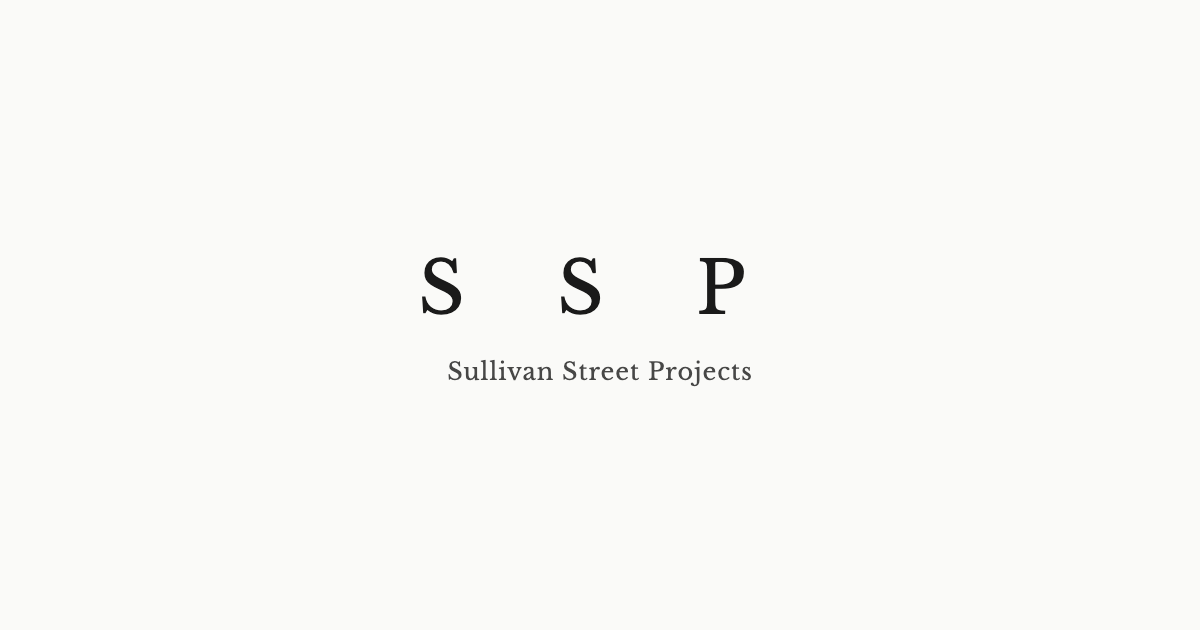
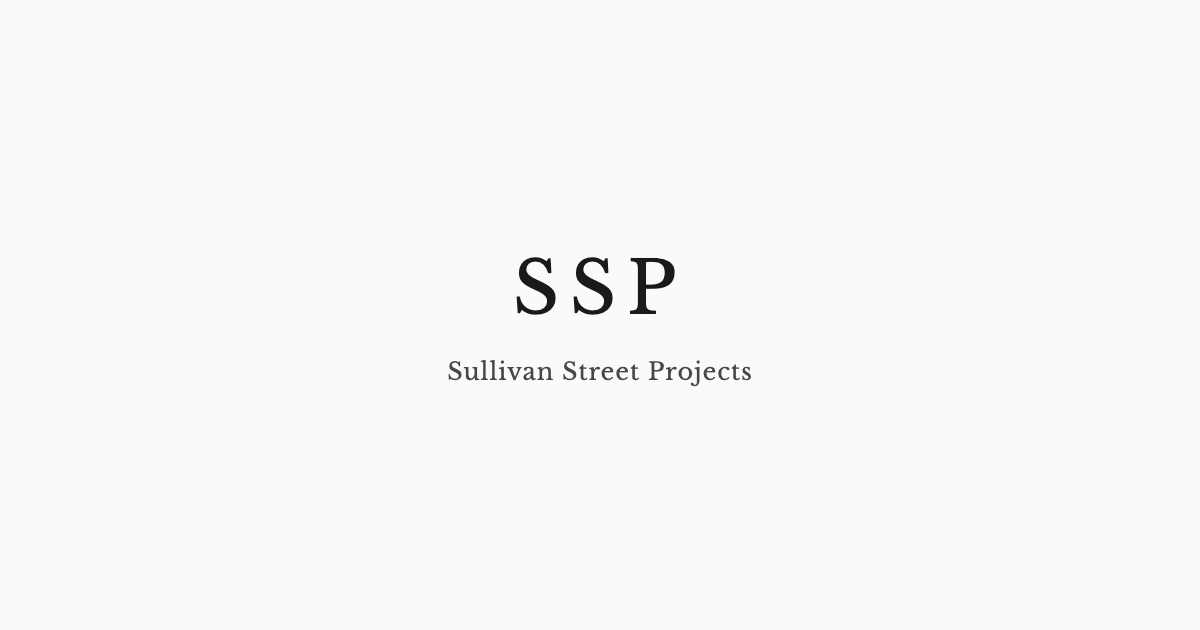
Consolidate and prune Design Playground: merge duplicates, reduce categories 17→14

Changed region(s): [[0.4317, 0.3921, 0.6167, 0.5127], [0.3392, 0.3921, 0.4008, 0.5127]]

diff --git a/src/playground/DesignPlayground.jsx b/src/playground/DesignPlayground.jsx
@@ -12,85 +12,12 @@ const categories = [
     ],
   },
   {
-    title: 'Value Props',
-    description: 'Core messaging layout variations',
-    variants: [
-      { id: 'animated-halftone', label: 'Animated Halftone', shipped: true, load: () => import('./variants/ValuePropsAnimatedHalftone') },
-      { id: 'editorial-halftone', label: 'Editorial Split', load: () => import('./variants/ValuePropsEditorialHalftone') },
-      { id: 'bento-cards', label: 'Bento Cards', load: () => import('./variants/ValuePropsAppleCards') },
-      { id: 'minimal-halftone', label: 'Minimalist Halftone', load: () => import('./variants/ValuePropsMinimalHalftone') },
-      { id: 'icon-grid', label: 'Icon Grid', load: () => import('./variants/ValuePropsWhiteCards') },
-      { id: 'halftone-icons', label: 'Halftone Icons', load: () => import('./variants/ValuePropsHalftoneIcons') },
-      { id: 'structured-list', label: 'Structured List', load: () => import('./variants/ValuePropsStructured') },
-      { id: 'inverted-dark', label: 'Inverted (Dark)', load: () => import('./variants/ValuePropsInverted') },
-      { id: 'sourced-photo', label: 'Sourced Photography', load: () => import('./variants/ValuePropsSourced') },
-      { id: 'user-generated', label: 'User Generated', load: () => import('./variants/ValuePropsUserImages') },
-      { id: 'editorial-text', label: 'Pure Text', load: () => import('./variants/ValuePropsEditorialText') },
-      { id: 'full-halftone', label: 'Maximalist Halftone', load: () => import('./variants/ValuePropsHalftone') },
-      { id: 'conceptual-svgs', label: 'Conceptual SVGs', load: () => import('./variants/ValuePropsConceptual') },
-      { id: 'photo-halftone', label: 'Photo Halftone', load: () => import('./variants/ValuePropsPhotoHalftone') },
-    ],
-  },
-  {
-    title: 'Approach',
-    description: 'Process and methodology visualizations',
-    variants: [
-      { id: 'approach-dots', label: 'Progressive Dots', shipped: true, load: () => import('./variants/ValuePropsApproachDots') },
-      { id: 'approach-dice', label: 'Dice Grid', load: () => import('./variants/ValuePropsApproachDice') },
-      { id: 'approach-numbered', label: 'Numbered Steps', load: () => import('./variants/ValuePropsApproachNumbered') },
-      { id: 'approach-narrative', label: 'Narrative Block', load: () => import('./variants/ApproachNarrative') },
-      { id: 'approach-diagram', label: 'Process Diagram', load: () => import('./variants/ApproachDiagram') },
-      { id: 'approach-accordion', label: 'Accordion Flow', load: () => import('./variants/ApproachAccordionFlow') },
-      { id: 'approach-cascade', label: 'Cascade Cards', load: () => import('./variants/ApproachCascade') },
-      { id: 'approach-swiss', label: 'Swiss Timeline', load: () => import('./variants/ApproachSwissTimeline') },
-      { id: 'approach-editorial', label: 'NYT Editorial', load: () => import('./variants/ApproachEditorial') },
-      { id: 'approach-stacking', label: 'Stacking Cards', load: () => import('./variants/ApproachStacking') },
-      { id: 'approach-focus', label: 'Scroll Focus', load: () => import('./variants/ApproachFocus') },
-    ],
-  },
-  {
-    title: 'Services',
-    description: 'Pricing and tier presentation',
-    variants: [
-      { id: 'services-rows', label: 'Accordion List', load: () => import('./variants/ServicesAccordionRows') },
-      { id: 'services-tiers', label: 'Tier Cards', load: () => import('./variants/ServicesAccordionTiers') },
-      { id: 'services-summary', label: 'Summary Grid', load: () => import('./variants/ServicesAccordionSummary') },
-    ],
-  },
-  {
-    title: 'Page Rhythm',
-    description: 'Section flow and background treatments',
-    variants: [
-      { id: 'statement-dark', label: 'Statement (Dark)', load: () => import('./variants/StatementDark') },
-      { id: 'statement-valueprop', label: 'Editorial Spread', load: () => import('./variants/StatementValueProps') },
-      { id: 'statement-text', label: 'Text Only', load: () => import('./variants/StatementValuePropsText') },
-    ],
-  },
-  {
     title: 'Hero',
     description: 'Hero section design directions',
     variants: [
       { id: 'hero-minimalist', label: 'Minimalist', load: () => import('./variants/HeroMinimalist') },
       { id: 'hero-magazine', label: 'Magazine', load: () => import('./variants/HeroMagazine') },
       { id: 'hero-immersive', label: 'Immersive', load: () => import('./variants/HeroImmersive') },
-    ],
-  },
-  {
-    title: 'Credentials',
-    description: 'Brand credibility presentations',
-    variants: [
-      { id: 'credentials-minimalist', label: 'Minimalist', load: () => import('./variants/CredentialsMinimalist') },
-      { id: 'credentials-magazine', label: 'Magazine', load: () => import('./variants/CredentialsMagazine') },
-      { id: 'credentials-immersive', label: 'Immersive', load: () => import('./variants/CredentialsImmersive') },
-    ],
-  },
-  {
-    title: 'Statement',
-    description: 'Pull-quote and thesis presentations',
-    variants: [
-      { id: 'statement-minimalist', label: 'Minimalist', load: () => import('./variants/StatementMinimalist') },
-      { id: 'statement-magazine', label: 'Magazine', load: () => import('./variants/StatementMagazine') },
-      { id: 'statement-immersive', label: 'Immersive', load: () => import('./variants/StatementImmersive') },
     ],
   },
   {
@@ -103,21 +30,64 @@ const categories = [
     ],
   },
   {
-    title: 'Approach (New)',
-    description: 'Process methodology — new design directions',
+    title: 'Value Props',
+    description: 'Core messaging layout variations',
     variants: [
-      { id: 'approach-minimalist', label: 'Minimalist', load: () => import('./variants/ApproachMinimalist') },
-      { id: 'approach-magazine', label: 'Magazine', load: () => import('./variants/ApproachMagazine') },
-      { id: 'approach-immersive', label: 'Immersive', load: () => import('./variants/ApproachImmersive') },
+      { id: 'animated-halftone', label: 'Animated Halftone', shipped: true, load: () => import('./variants/ValuePropsAnimatedHalftone') },
+      { id: 'editorial-halftone', label: 'Editorial Split', load: () => import('./variants/ValuePropsEditorialHalftone') },
+      { id: 'bento-cards', label: 'Bento Cards', load: () => import('./variants/ValuePropsAppleCards') },
+      { id: 'icon-grid', label: 'Icon Grid', load: () => import('./variants/ValuePropsWhiteCards') },
+      { id: 'structured-list', label: 'Structured List', load: () => import('./variants/ValuePropsStructured') },
+      { id: 'inverted-dark', label: 'Inverted (Dark)', load: () => import('./variants/ValuePropsInverted') },
+      { id: 'sourced-photo', label: 'Sourced Photography', load: () => import('./variants/ValuePropsSourced') },
+      { id: 'editorial-text', label: 'Pure Text', load: () => import('./variants/ValuePropsEditorialText') },
+      { id: 'conceptual-svgs', label: 'Conceptual SVGs', load: () => import('./variants/ValuePropsConceptual') },
     ],
   },
   {
-    title: 'Services (New)',
-    description: 'Pricing and tier — new design directions',
+    title: 'Approach',
+    description: 'Process and methodology visualizations',
+    variants: [
+      { id: 'approach-dots', label: 'Progressive Dots', shipped: true, load: () => import('./variants/ValuePropsApproachDots') },
+      { id: 'approach-minimalist', label: 'Minimalist', load: () => import('./variants/ApproachMinimalist') },
+      { id: 'approach-magazine', label: 'Magazine', load: () => import('./variants/ApproachMagazine') },
+      { id: 'approach-immersive', label: 'Immersive', load: () => import('./variants/ApproachImmersive') },
+      { id: 'approach-narrative', label: 'Narrative Block', load: () => import('./variants/ApproachNarrative') },
+      { id: 'approach-accordion', label: 'Accordion Flow', load: () => import('./variants/ApproachAccordionFlow') },
+      { id: 'approach-swiss', label: 'Swiss Timeline', load: () => import('./variants/ApproachSwissTimeline') },
+      { id: 'approach-stacking', label: 'Stacking Cards', load: () => import('./variants/ApproachStacking') },
+    ],
+  },
+  {
+    title: 'Statement',
+    description: 'Pull-quote, thesis, and section rhythm',
+    variants: [
+      { id: 'statement-minimalist', label: 'Minimalist', load: () => import('./variants/StatementMinimalist') },
+      { id: 'statement-magazine', label: 'Magazine', load: () => import('./variants/StatementMagazine') },
+      { id: 'statement-immersive', label: 'Immersive', load: () => import('./variants/StatementImmersive') },
+      { id: 'statement-dark', label: 'Dark', load: () => import('./variants/StatementDark') },
+      { id: 'statement-valueprop', label: 'Editorial Spread', load: () => import('./variants/StatementValueProps') },
+    ],
+  },
+  {
+    title: 'Services',
+    description: 'Pricing and tier presentation',
     variants: [
       { id: 'services-minimalist', label: 'Minimalist', load: () => import('./variants/ServicesMinimalist') },
       { id: 'services-magazine', label: 'Magazine', load: () => import('./variants/ServicesMagazine') },
       { id: 'services-immersive', label: 'Immersive', load: () => import('./variants/ServicesImmersive') },
+      { id: 'services-rows', label: 'Accordion List', load: () => import('./variants/ServicesAccordionRows') },
+      { id: 'services-tiers', label: 'Tier Cards', load: () => import('./variants/ServicesAccordionTiers') },
+      { id: 'services-summary', label: 'Summary Grid', load: () => import('./variants/ServicesAccordionSummary') },
+    ],
+  },
+  {
+    title: 'Credentials',
+    description: 'Brand credibility presentations',
+    variants: [
+      { id: 'credentials-minimalist', label: 'Minimalist', load: () => import('./variants/CredentialsMinimalist') },
+      { id: 'credentials-magazine', label: 'Magazine', load: () => import('./variants/CredentialsMagazine') },
+      { id: 'credentials-immersive', label: 'Immersive', load: () => import('./variants/CredentialsImmersive') },
     ],
   },
   {
@@ -145,6 +115,7 @@ const categories = [
       { id: 'contact-minimalist', label: 'Minimalist', load: () => import('./variants/ContactMinimalist') },
       { id: 'contact-magazine', label: 'Magazine', load: () => import('./variants/ContactMagazine') },
       { id: 'contact-immersive', label: 'Immersive', load: () => import('./variants/ContactImmersive') },
+      { id: 'contact-convergence', label: 'Convergence', load: () => import('./variants/ContactConvergence') },
     ],
   },
   {
@@ -158,11 +129,10 @@ const categories = [
   },
   {
     title: 'Explorations',
-    description: 'Layout patterns and experimental structures',
+    description: 'Experimental layouts and patterns',
     variants: [
       { id: 'section-spacing', label: 'Section Spacing / Dividers', load: () => import('./variants/SectionSeparation') },
       { id: 'full-bleed', label: 'Full-Bleed Zones', load: () => import('./variants/FullBleedZone') },
-      { id: 'contact-convergence', label: 'Contact Convergence', load: () => import('./variants/ContactConvergence') },
       { id: 'green-accent', label: 'Green Accent Test', load: () => import('./variants/GreenAccentHalftone') },
       { id: 'bg-green-tint', label: 'Background Tints', load: () => import('./variants/BackgroundGreenTint') },
     ],
@@ -231,18 +201,18 @@ const DesignPlayground = () => {
         {/* Sidebar Header */}
         <div className="px-5 py-4 border-b border-[#e5e5e5] hidden md:block">
           <div className="flex items-center justify-between mb-1">
-             <h1 className="font-serif text-lg text-[#1a1a1a]">Playground</h1>
-             <a
-               href="/"
-               className="text-[10px] font-bold text-[#737373] hover:text-[#1a1a1a] uppercase tracking-widest"
-               onClick={(e) => {
-                 e.preventDefault();
-                 window.location.hash = '';
-                 window.location.reload();
-               }}
-             >
-               Exit
-             </a>
+            <h1 className="font-serif text-lg text-[#1a1a1a]">Playground</h1>
+            <a
+              href="/"
+              className="text-[10px] font-bold text-[#737373] hover:text-[#1a1a1a] uppercase tracking-widest"
+              onClick={(e) => {
+                e.preventDefault();
+                window.location.hash = '';
+                window.location.reload();
+              }}
+            >
+              Exit
+            </a>
           </div>
           <p className="text-[11px] text-[#737373]">Design system & layout lab</p>
         </div>
@@ -262,24 +232,21 @@ const DesignPlayground = () => {
                       setSelectedVariantId(v.id);
                       setIsSidebarOpen(false);
                     }}
-                    className={`w-full text-left px-3 py-2 rounded-md text-[13px] transition-all flex items-center justify-between group ${
-                      selectedVariantId === v.id
+                    className={`w-full text-left px-3 py-2 rounded-md text-[13px] transition-all flex items-center justify-between group ${selectedVariantId === v.id
                         ? 'bg-[#1a1a1a] text-white shadow-sm'
                         : 'text-[#525252] hover:bg-[#e5e5e5]/60'
-                    }`}
+                      }`}
                   >
                     <span className="truncate mr-2">{v.label}</span>
                     {v.version && (
-                      <span className={`text-[9px] px-1.5 py-0.5 rounded font-medium shrink-0 ${
-                        selectedVariantId === v.id ? 'bg-white/10 text-white/70' : 'bg-transparent text-[#a3a3a3]'
-                      }`}>
+                      <span className={`text-[9px] px-1.5 py-0.5 rounded font-medium shrink-0 ${selectedVariantId === v.id ? 'bg-white/10 text-white/70' : 'bg-transparent text-[#a3a3a3]'
+                        }`}>
                         {v.version}
                       </span>
                     )}
                     {v.shipped && (
-                      <span className={`text-[9px] px-1.5 py-0.5 rounded font-medium shrink-0 ${
-                        selectedVariantId === v.id ? 'bg-white/20 text-white' : 'bg-[#e5e5e5] text-[#737373]'
-                      }`}>
+                      <span className={`text-[9px] px-1.5 py-0.5 rounded font-medium shrink-0 ${selectedVariantId === v.id ? 'bg-white/20 text-white' : 'bg-[#e5e5e5] text-[#737373]'
+                        }`}>
                         LIVE
                       </span>
                     )}
@@ -307,22 +274,22 @@ const DesignPlayground = () => {
           </div>
 
           <div className="flex items-center gap-4">
-             {activeVariant?.shipped && (
-                <div className="flex items-center gap-2 px-2 py-1 bg-[#4ADE80]/10 rounded border border-[#4ADE80]/20">
-                   <div className="w-1.5 h-1.5 rounded-full bg-[#4ADE80] animate-pulse" />
-                   <span className="text-[10px] font-bold text-[#15803d] uppercase tracking-wide">Production</span>
-                </div>
-             )}
+            {activeVariant?.shipped && (
+              <div className="flex items-center gap-2 px-2 py-1 bg-[#4ADE80]/10 rounded border border-[#4ADE80]/20">
+                <div className="w-1.5 h-1.5 rounded-full bg-[#4ADE80] animate-pulse" />
+                <span className="text-[10px] font-bold text-[#15803d] uppercase tracking-wide">Production</span>
+              </div>
+            )}
           </div>
         </div>
 
         {/* Canvas */}
         <div className="flex-1 overflow-y-auto relative bg-[#FAFAF8]">
-           <div className="w-full max-w-[1200px] mx-auto px-6 md:px-8 py-12 md:py-24">
-              {LoadedComponent ? <LoadedComponent /> : (
-                <div className="text-center text-[#999] py-24">Loading...</div>
-              )}
-           </div>
+          <div className="w-full max-w-[1200px] mx-auto px-6 md:px-8 py-12 md:py-24">
+            {LoadedComponent ? <LoadedComponent /> : (
+              <div className="text-center text-[#999] py-24">Loading...</div>
+            )}
+          </div>
         </div>
       </main>
     </div>

diff --git a/src/components/CTAButton.jsx b/src/components/CTAButton.jsx
@@ -1,56 +1,31 @@
-import React, { useRef, useState } from 'react';
-import { motion } from 'framer-motion';
+import React from 'react';
 import AnimatedArrow from './AnimatedArrow';
 
 const CTAButton = ({ href, onClick, children, variant = 'sm' }) => {
   const isLarge = variant === 'lg';
-  const buttonRef = useRef(null);
-  const [position, setPosition] = useState({ x: 0, y: 0 });
-
-  const handleMouseMove = (e) => {
-    if (!buttonRef.current) return;
-    const { clientX, clientY } = e;
-    const { width, height, left, top } = buttonRef.current.getBoundingClientRect();
-    const x = clientX - (left + width / 2);
-    const y = clientY - (top + height / 2);
-    setPosition({ x: x * 0.15, y: y * 0.15 });
-  };
-
-  const handleMouseLeave = () => {
-    setPosition({ x: 0, y: 0 });
-  };
 
   const className = isLarge
-    ? 'font-serif text-3xl md:text-4xl lg:text-5xl italic inline-flex items-center gap-6 md:gap-10 transition-colors text-charcoal'
-    : 'font-sans text-micro font-bold uppercase tracking-wider inline-flex items-center gap-4 transition-colors text-charcoal';
+    ? 'font-serif text-3xl md:text-4xl lg:text-5xl italic inline-flex items-center gap-6 md:gap-10 transition-colors duration-300 text-charcoal hover:text-[#737373]'
+    : 'font-sans text-micro font-bold uppercase tracking-wider inline-flex items-center gap-4 transition-colors duration-300 text-charcoal hover:text-[#737373]';
 
   const underlineClass = isLarge
     ? 'absolute -bottom-4 left-0 w-full h-[1.5px] bg-charcoal scale-x-0 group-hover:scale-x-100 transition-transform origin-left duration-500 delay-100'
     : 'absolute -bottom-2 left-0 w-full h-[1.5px] bg-charcoal scale-x-0 group-hover:scale-x-100 transition-transform origin-left duration-500 delay-100';
 
-  const Tag = href ? motion.a : motion.button;
+  const Tag = href ? 'a' : 'button';
   const props = href ? { href } : { onClick };
 
   return (
-    <motion.div
-      ref={buttonRef}
-      onMouseMove={handleMouseMove}
-      onMouseLeave={handleMouseLeave}
-      animate={{ x: position.x, y: position.y }}
-      transition={{ type: "spring", stiffness: 150, damping: 15, mass: 0.1 }}
-      className="group relative inline-block cursor-pointer"
-    >
+    <div className="group relative inline-block cursor-pointer">
       <Tag
         {...props}
         className={className}
-        whileHover={{ scale: 1.03, y: -1 }}
-        transition={{ ease: [0.25, 0.46, 0.45, 0.94], duration: 0.4 }}
       >
         <span className="relative z-10">{children}</span>
         <AnimatedArrow size={variant} className={isLarge ? 'not-italic relative z-10' : 'relative z-10'} />
       </Tag>
       <div className={underlineClass} />
-    </motion.div>
+    </div>
   );
 };
 

diff --git a/scripts/export-brand-assets.js b/scripts/export-brand-assets.js
@@ -54,12 +54,12 @@ function wordmarkWithTagline(fg) {
 }
 
 function monogram(fg) {
-  return `<span style="font-size: 48px; color: ${fg}; letter-spacing: 0.5em;">S S P</span>`;
+  return `<span style="font-size: 48px; color: ${fg}; letter-spacing: 0.15em;">SSP</span>`;
 }
 
 function monogramWithWordmark(fg) {
   return `<div style="text-align: center;">
-    <div style="font-size: 72px; color: ${fg}; letter-spacing: 0.5em; margin-bottom: 24px;">S S P</div>
+    <div style="font-size: 72px; color: ${fg}; letter-spacing: 0.15em; margin-bottom: 24px;">SSP</div>
     <div style="font-size: 24px; color: ${fg}; letter-spacing: 0.04em; opacity: 0.8;">Sullivan Street Projects</div>
   </div>`;
 }
@@ -88,8 +88,8 @@ function sMarkBareScaled(fg, size) {
 // Asset definitions
 const assets = [
   // LinkedIn
-  { path: 'linkedin/company-logo-light.png', w: 300, h: 300, bg: PAPER, content: () => sMarkFramedScaled(CHARCOAL, 300) },
-  { path: 'linkedin/company-logo-dark.png', w: 300, h: 300, bg: CHARCOAL, content: () => sMarkFramedScaled(PAPER, 300) },
+  { path: 'linkedin/company-logo-light.png', w: 300, h: 300, bg: PAPER, content: () => sMarkBareScaled(CHARCOAL, 300) },
+  { path: 'linkedin/company-logo-dark.png', w: 300, h: 300, bg: CHARCOAL, content: () => sMarkBareScaled(PAPER, 300) },
   { path: 'linkedin/company-banner-light.png', w: 1128, h: 191, bg: PAPER, content: () => wordmark(CHARCOAL) },
   { path: 'linkedin/company-banner-dark.png', w: 1128, h: 191, bg: CHARCOAL, content: () => wordmark(PAPER) },
   { path: 'linkedin/profile-banner-light.png', w: 1584, h: 396, bg: PAPER, content: () => wordmarkWithTagline(CHARCOAL) },
@@ -97,8 +97,8 @@ const assets = [
 
   // Favicon / App Icon
   { path: 'favicon/favicon-32.png', w: 32, h: 32, bg: CHARCOAL, content: () => sMarkBareScaled(PAPER, 32) },
-  { path: 'favicon/apple-touch-icon-180.png', w: 180, h: 180, bg: PAPER, content: () => sMarkFramedScaled(CHARCOAL, 180) },
-  { path: 'favicon/android-icon-512.png', w: 512, h: 512, bg: PAPER, content: () => sMarkFramedScaled(CHARCOAL, 512) },
+  { path: 'favicon/apple-touch-icon-180.png', w: 180, h: 180, bg: PAPER, content: () => sMarkBareScaled(CHARCOAL, 180) },
+  { path: 'favicon/android-icon-512.png', w: 512, h: 512, bg: PAPER, content: () => sMarkBareScaled(CHARCOAL, 512) },
 
   // Social / OG
   { path: 'social/og-image-light.png', w: 1200, h: 630, bg: PAPER, content: () => monogramWithWordmark(CHARCOAL) },
